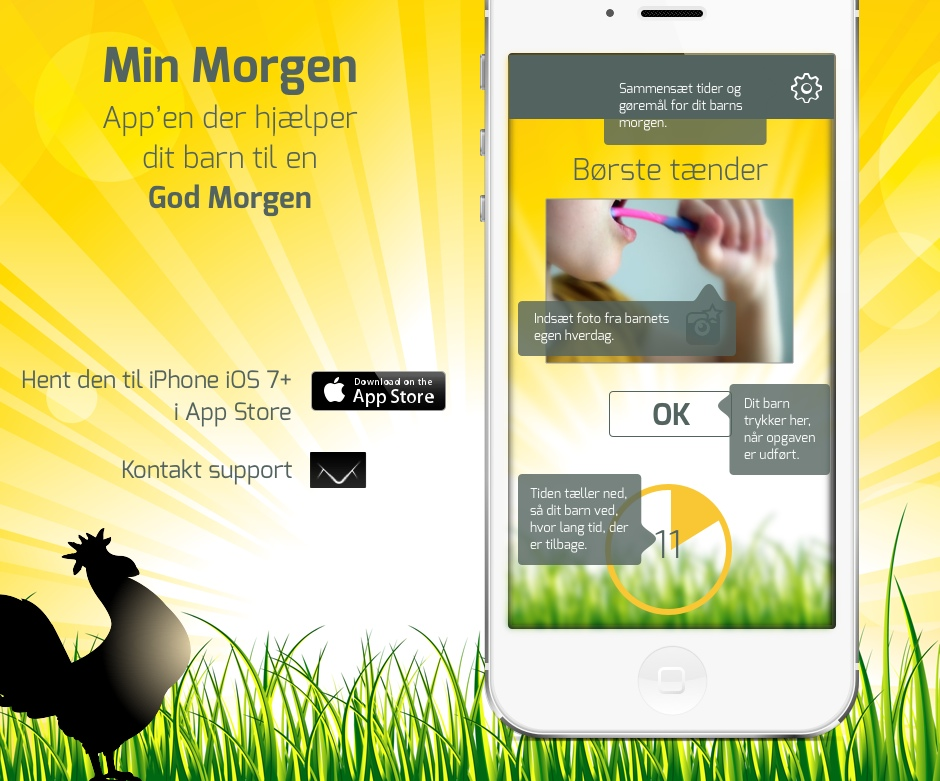
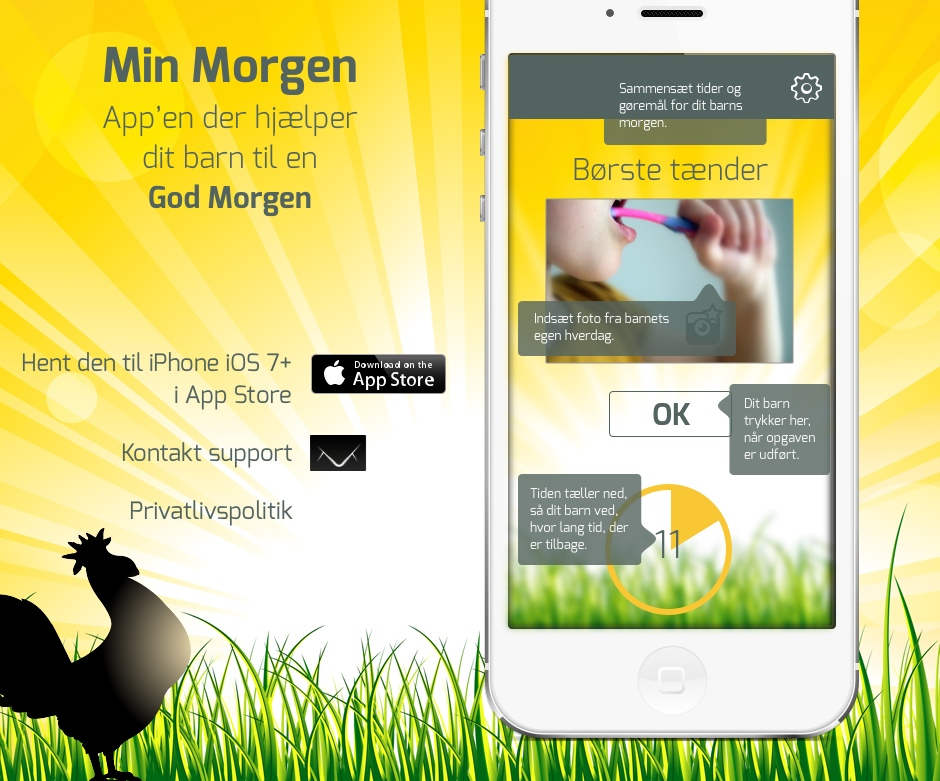
plan html files

Changed region(s): [[0.0, 0.4302, 0.4936, 0.6453], [0.1543, 0.6453, 0.3085, 0.6761]]

diff --git a/index.html b/index.html
@@ -1,7 +1,26 @@
 <html>
 	<head>
+		<title>Min Morgen</title>
+				<style>
+			body {font-family: Helvetica Neue, Helvetica, Arial}
+		</style>
+
 	</head>
 	<body style="margin:0; background-color:#2A3432;">
-		<div style="background:url(http://minmorgen.skovsboll.com/web_standin.jpg) no-repeat;margin-left:auto;margin-right:auto;height:100%;width:940px;"></div>
+		<div style="background:url(web_standin.jpg) no-repeat;margin-left:auto;margin-right:auto;height:100%;width:940px;">
+
+			<div style="position: relative; border: none; left: 0px; top: 328px; width: 452px; height:95px">
+			   <a href="https://itunes.apple.com/us/app/min-morgen/id878297637?ls=1&mt=8" style="height:100%;width:100%;display:block;" target="_blank">&nbsp</a>
+			</div>
+		
+			<div style="position: relative; border: none; left: 106px; top: 328px; width: 273px; height:61px">
+			   <a href="mailto:soren@skovsboll.com" style="height:100%;width:100%;display:block;">&nbsp</a>
+			</div>
+		
+			<div style="position: relative; border: none; left: 105px; top: 335px; width: 273px; height:36px">
+			   <a href="privacy.html" style="height:100%;width:100%;display:block;">&nbsp</a>
+			</div>
+		
+		</div>
 	</body>
 </html>

diff --git a/privacy.html b/privacy.html
@@ -1,0 +1,24 @@
+<html>
+	<head>
+		<title>Min Morgen Privatlivspolitik</title>
+		<style>
+			body {font-family: Helvetica Neue, Helvetica, Arial}
+		</style>
+	</head>
+	<body style="margin:0; background-color:#2A3432;">
+		<div style="background:url(web_bg.jpg) no-repeat;margin-left:auto;margin-right:auto;height:100%;width:940px;">
+			<div style="position:relative; left: 101px; top:93px; width:746px; height: 400px;">
+			<img src="min_morgen_title.png" style="float:right; margin-bottom: 500px;" />
+			<h3>Dine data er dine og kun dine.</h3>
+<p>
+Dine aktiviteter og billeder forbliver udelukkende p&aring; din telefon. 
+</p>
+<h3>Vi opsamler anonym statistik</h3>
+<p>
+Vi opsamler anonym statistik med HockeyApp. Form&aring;let med at opsamle anonym statistik er udelukkende at blive kloge p&aring;, hvordan app'en bliver brugt, s&aring; vi kan forbedre den l&oslash;bende. Det er ikke muligt for os at identificere den enkelte bruger eller den enkelte iPhone ud fra statistikken.
+	</p>		
+<p>Vi videres&aelig;lger ikke statistik til andre.</p>
+	</div>
+		</div>
+	</body>
+</html>
